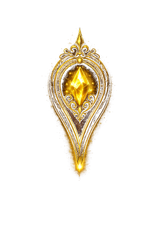
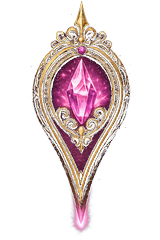
Use custom Publications pointer and move its map pin
Replace the copied Achievements pin with the uploaded magenta
publications pointer and shift the marker to the eastern island so it
no longer overlaps Achievements.

Changed region(s): [[0.1875, 0.0, 0.8125, 0.9917]]

diff --git a/src/components/VintageMap.tsx b/src/components/VintageMap.tsx
@@ -70,7 +70,11 @@ export function VintageMap({ onSelect, activeId }: VintageMapProps) {
                 unoptimized
               />
               <span
-                className="map-pin-label absolute left-1/2 top-[102%] -translate-x-1/2 whitespace-nowrap rounded-md px-2 py-1 text-[0.7rem] font-bold tracking-wide shadow-md sm:text-sm"
+                className={`map-pin-label absolute left-1/2 top-[102%] -translate-x-1/2 rounded-md px-2 py-1 text-center text-[0.7rem] font-bold tracking-wide shadow-md sm:text-sm ${
+                  quest.id === "publications"
+                    ? "max-w-[7.5rem] whitespace-normal leading-tight sm:max-w-[9rem]"
+                    : "whitespace-nowrap"
+                }`}
                 style={{
                   background: "color-mix(in srgb, var(--surface-elevated) 96%, transparent)",
                   color: "var(--parchment-ink)",

diff --git a/src/data/portfolio.ts b/src/data/portfolio.ts
@@ -48,8 +48,8 @@ export const QUESTS: {
     id: "publications",
     label: "Publications & Patents",
     questNumber: 4,
-    pinColor: "#7c3aed",
-    mapPosition: { x: 58, y: 34 },
+    pinColor: "#d946a8",
+    mapPosition: { x: 82, y: 36 },
     pinSrc: "/quest/pin-publications.png",
     description: "Scrolls of discovery",
   },